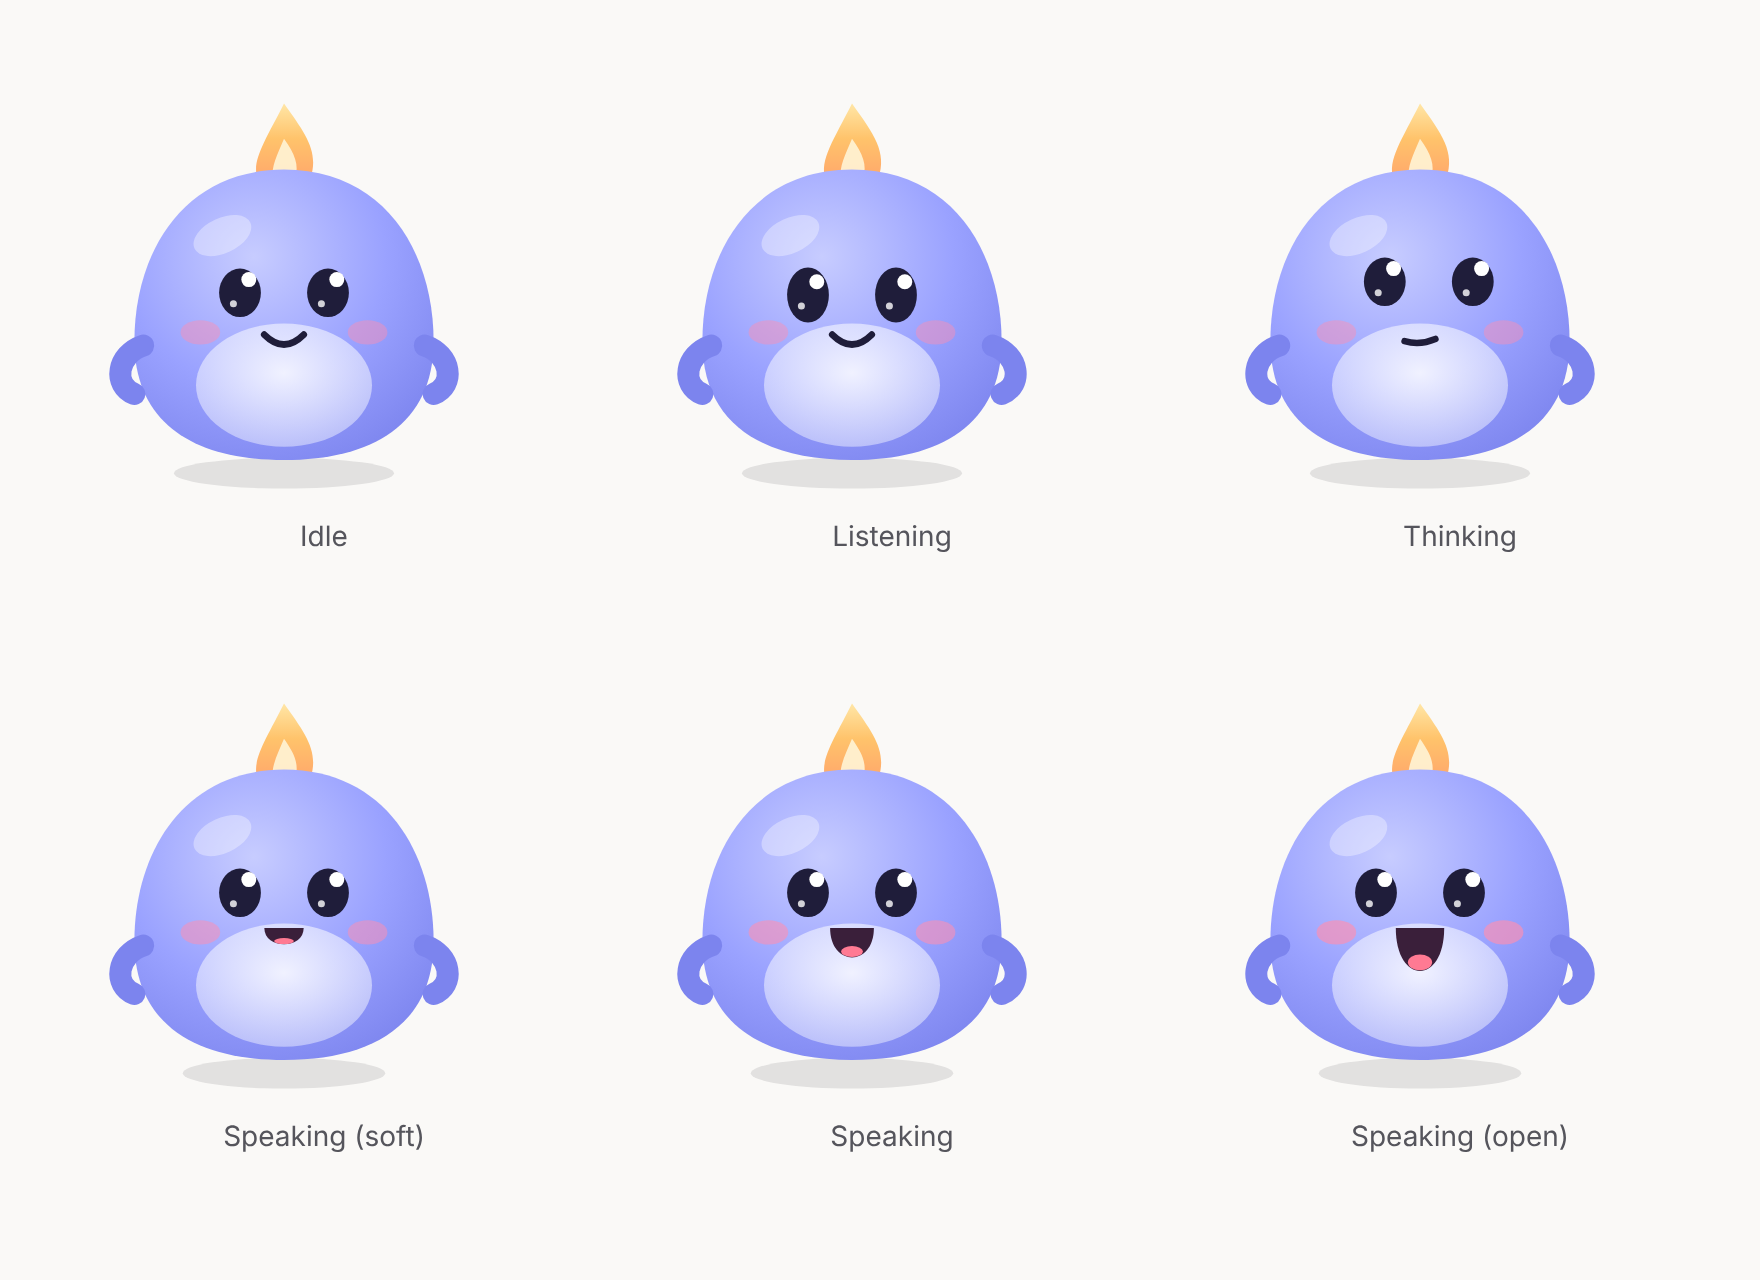
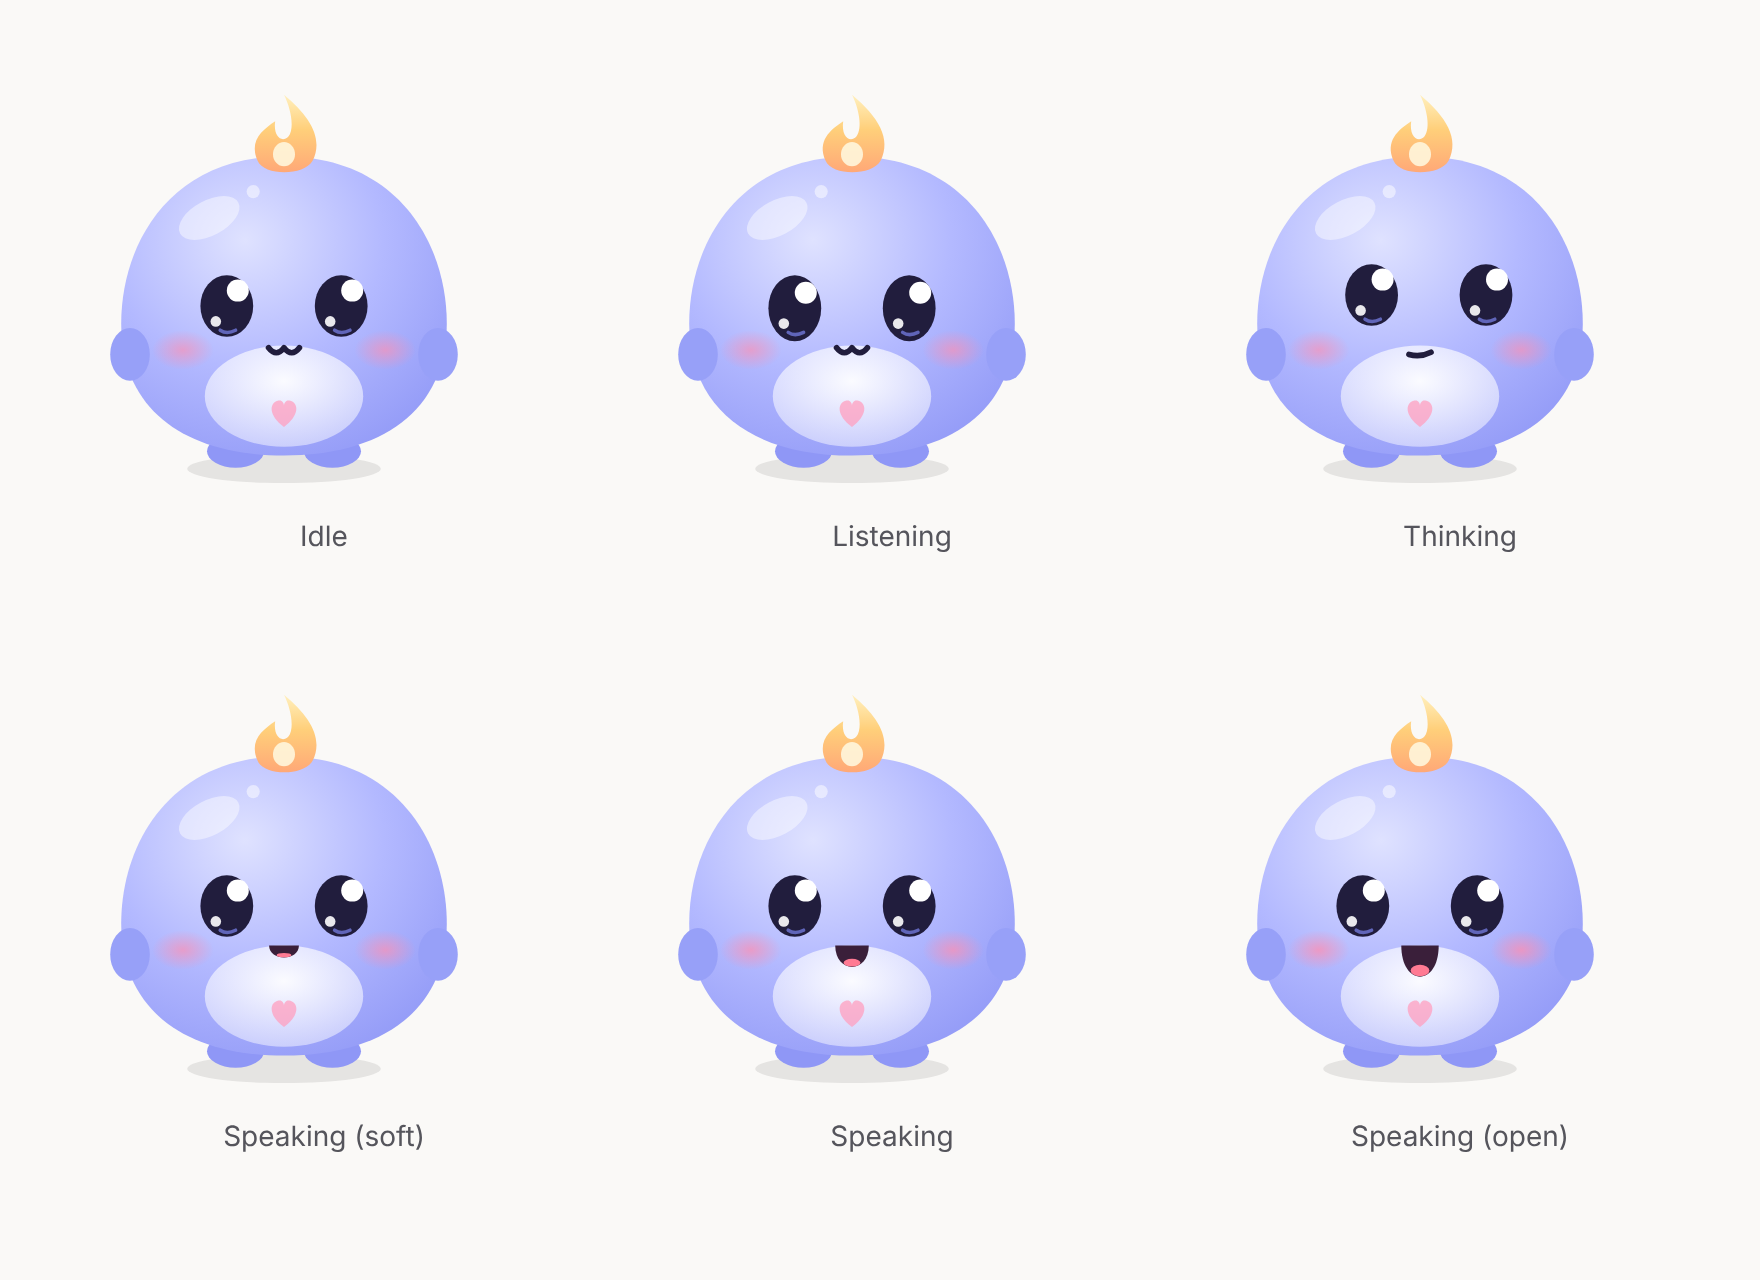
Make Mabel cuter
Rounder squishy body with tiny feet, bigger low-set sparkly eyes, kitten
smile, soft gradient blush, stubby arms, curled flame tuft and a small
heart on her belly.

Claude-Session: https://claude.ai/code/session_01TrDrfcBNrn5DyQKY7dUqSb

diff --git a/web/src/components/mabel.tsx b/web/src/components/mabel.tsx
@@ -19,10 +19,10 @@ export function Mabel({ state = "idle", level = 0, size = 160, className }: { st
   }, []);
 
   const o = state === "speaking" ? Math.min(1, level * 2.6) : 0;
-  const mouthH = 2 + o * 18;
-  const mouthW = 8 + o * 3;
+  const mouthH = 1.5 + o * 13;
+  const mouthW = 6 + o * 2.5;
   const look = state === "thinking" ? { x: 4, y: -5 } : state === "listening" ? { x: 0, y: 1 } : { x: 0, y: 0 };
-  const eyeRy = blink ? 0.8 : state === "listening" ? 12.5 : 11;
+  const eyeRy = blink ? 0.8 : state === "listening" ? 15 : 14;
   const tuft = state === "listening" ? "mabel-tuft-perk" : state === "speaking" ? "mabel-tuft-flicker" : "mabel-tuft-idle";
 
   return (
@@ -30,47 +30,57 @@ export function Mabel({ state = "idle", level = 0, size = 160, className }: { st
       {state === "listening" && <span className="absolute inset-[6%] animate-ping rounded-full bg-accent/20" style={{ animationDuration: "1.6s" }} />}
       <svg viewBox="0 0 200 200" width={size} height={size} role="img" aria-label={`Mabel, ${state}`} className="relative overflow-visible">
         <defs>
-          <radialGradient id="mb-body" cx="40%" cy="30%" r="80%"><stop offset="0%" stopColor="#c7ccff" /><stop offset="55%" stopColor="#9aa2ff" /><stop offset="100%" stopColor="#7c84ee" /></radialGradient>
-          <radialGradient id="mb-belly" cx="50%" cy="40%" r="60%"><stop offset="0%" stopColor="#ffffff" stopOpacity="0.85" /><stop offset="100%" stopColor="#eef0ff" stopOpacity="0.5" /></radialGradient>
-          <linearGradient id="mb-flame" x1="0" y1="1" x2="0" y2="0"><stop offset="0%" stopColor="#ff9f6b" /><stop offset="60%" stopColor="#ffc36b" /><stop offset="100%" stopColor="#ffe6a6" /></linearGradient>
+          <radialGradient id="mb-body" cx="38%" cy="28%" r="85%"><stop offset="0%" stopColor="#dfe2ff" /><stop offset="50%" stopColor="#b3b9ff" /><stop offset="100%" stopColor="#8f97f6" /></radialGradient>
+          <radialGradient id="mb-belly" cx="50%" cy="35%" r="65%"><stop offset="0%" stopColor="#ffffff" stopOpacity="0.95" /><stop offset="100%" stopColor="#f1f2ff" stopOpacity="0.55" /></radialGradient>
+          <linearGradient id="mb-flame" x1="0" y1="1" x2="0" y2="0"><stop offset="0%" stopColor="#ffa877" /><stop offset="55%" stopColor="#ffcf7a" /><stop offset="100%" stopColor="#fff0be" /></linearGradient>
+          <radialGradient id="mb-blush" cx="50%" cy="50%" r="50%"><stop offset="0%" stopColor="#ff8fb1" stopOpacity="0.75" /><stop offset="100%" stopColor="#ff8fb1" stopOpacity="0" /></radialGradient>
         </defs>
         {/* soft ground shadow */}
-        <ellipse cx="100" cy="186" rx={state === "speaking" ? 46 : 50} ry="7" fill="#11111a" opacity="0.10" className="mabel-shadow" />
+        <ellipse cx="100" cy="184" rx="44" ry="6.5" fill="#11111a" opacity="0.09" className="mabel-shadow" />
         <g className="mabel-bob">
-          {/* flame tuft */}
-          <g className={tuft} style={{ transformOrigin: "100px 52px" }}>
-            <path d="M100 18 C110 32 116 40 112 52 C109 60 91 60 88 52 C85 44 92 34 100 18 Z" fill="url(#mb-flame)" />
-            <path d="M100 34 C105 41 107 46 105 52 C103 56 97 56 95 52 C94 47 97 41 100 34 Z" fill="#fff4d6" opacity="0.9" />
+          {/* tiny feet */}
+          <ellipse cx="78" cy="176" rx="13" ry="7.5" fill="#8f97f6" />
+          <ellipse cx="122" cy="176" rx="13" ry="7.5" fill="#8f97f6" />
+          {/* round, squishy body (big head = cute) */}
+          <path d="M100 42 C152 42 174 82 174 118 C174 158 144 178 100 178 C56 178 26 158 26 118 C26 82 48 42 100 42 Z" fill="url(#mb-body)" />
+          {/* flame tuft with a little curl */}
+          <g className={tuft} style={{ transformOrigin: "100px 46px" }}>
+            <path d="M100 14 C112 24 118 34 113 44 C109 51 91 51 88 44 C84 35 90 30 96 26 C95 33 99 36 102 33 C105 29 103 20 100 14 Z" fill="url(#mb-flame)" />
+            <ellipse cx="100" cy="41" rx="5" ry="5.5" fill="#fff6dc" opacity="0.9" />
           </g>
-          {/* body: a soft gumdrop */}
-          <path d="M100 48 C146 48 168 86 168 126 C168 164 140 180 100 180 C60 180 32 164 32 126 C32 86 54 48 100 48 Z" fill="url(#mb-body)" />
-          {/* belly patch */}
-          <ellipse cx="100" cy="146" rx="40" ry="28" fill="url(#mb-belly)" />
-          {/* little arms */}
-          <path d="M36 128 C24 132 22 146 32 150" stroke="#7c84ee" strokeWidth="10" strokeLinecap="round" fill="none" className={state === "speaking" ? "mabel-wave-l" : undefined} style={{ transformOrigin: "36px 128px" }} />
-          <path d="M164 128 C176 132 178 146 168 150" stroke="#7c84ee" strokeWidth="10" strokeLinecap="round" fill="none" className={state === "speaking" ? "mabel-wave-r" : undefined} style={{ transformOrigin: "164px 128px" }} />
+          {/* belly */}
+          <ellipse cx="100" cy="151" rx="36" ry="23" fill="url(#mb-belly)" />
+          {/* tiny heart on the belly */}
+          <path d="M100 165 C93 160 93 154 97.5 153 C99 152.6 100 154 100 155.3 C100 154 101 152.6 102.5 153 C107 154 107 160 100 165 Z" fill="#ff9fbf" opacity="0.75" />
+          {/* stubby arms */}
+          <ellipse cx="30" cy="132" rx="9" ry="12" fill="#97a0f8" className={state === "speaking" ? "mabel-wave-l" : undefined} style={{ transformOrigin: "36px 124px" }} />
+          <ellipse cx="170" cy="132" rx="9" ry="12" fill="#97a0f8" className={state === "speaking" ? "mabel-wave-r" : undefined} style={{ transformOrigin: "164px 124px" }} />
           {/* gloss */}
-          <ellipse cx="72" cy="78" rx="14" ry="8" fill="#ffffff" opacity="0.35" transform="rotate(-25 72 78)" />
-          {/* eyes */}
+          <ellipse cx="66" cy="70" rx="15" ry="8" fill="#ffffff" opacity="0.45" transform="rotate(-28 66 70)" />
+          <circle cx="86" cy="58" r="3" fill="#ffffff" opacity="0.5" />
+          {/* big sparkly eyes, set low and wide */}
           <g style={{ transform: `translate(${look.x}px, ${look.y}px)`, transition: "transform 420ms cubic-bezier(.22,1,.36,1)" }}>
-            <ellipse cx="80" cy="104" rx="9.5" ry={eyeRy} fill="#1f1d3a" style={{ transition: "ry 90ms" }} />
-            <ellipse cx="120" cy="104" rx="9.5" ry={eyeRy} fill="#1f1d3a" style={{ transition: "ry 90ms" }} />
+            <ellipse cx="74" cy="110" rx="12" ry={eyeRy} fill="#211d3d" style={{ transition: "ry 90ms" }} />
+            <ellipse cx="126" cy="110" rx="12" ry={eyeRy} fill="#211d3d" style={{ transition: "ry 90ms" }} />
             {!blink && <>
-              <circle cx="84" cy="98" r="3.4" fill="#fff" /><circle cx="124" cy="98" r="3.4" fill="#fff" />
-              <circle cx="77" cy="109" r="1.6" fill="#fff" opacity="0.8" /><circle cx="117" cy="109" r="1.6" fill="#fff" opacity="0.8" />
+              <circle cx="79" cy="103" r="5" fill="#fff" /><circle cx="131" cy="103" r="5" fill="#fff" />
+              <circle cx="69" cy="117" r="2.4" fill="#fff" opacity="0.9" /><circle cx="121" cy="117" r="2.4" fill="#fff" opacity="0.9" />
+              <path d="M71 121 q3 2 7 0" stroke="#7c84ee" strokeWidth="1.6" strokeLinecap="round" fill="none" opacity="0.7" />
+              <path d="M123 121 q3 2 7 0" stroke="#7c84ee" strokeWidth="1.6" strokeLinecap="round" fill="none" opacity="0.7" />
             </>}
           </g>
-          {/* cheeks */}
-          <ellipse cx="62" cy="122" rx="9" ry="5.5" fill="#ff8fb1" opacity={0.45 + o * 0.2} />
-          <ellipse cx="138" cy="122" rx="9" ry="5.5" fill="#ff8fb1" opacity={0.45 + o * 0.2} />
-          {/* mouth */}
+          {/* soft blush */}
+          <ellipse cx="54" cy="130" rx="14" ry="9" fill="url(#mb-blush)" opacity={0.85 + o * 0.15} />
+          <ellipse cx="146" cy="130" rx="14" ry="9" fill="url(#mb-blush)" opacity={0.85 + o * 0.15} />
+          {/* little mouth */}
           {o < 0.08 ? (
-            <path d={state === "thinking" ? "M93 126 q7 2 14 -1" : "M91 123 q9 9 18 0"} stroke="#1f1d3a" strokeWidth="3" strokeLinecap="round" fill="none" />
+            state === "thinking"
+              ? <path d="M95 132 q5 1.5 10 -1" stroke="#211d3d" strokeWidth="2.6" strokeLinecap="round" fill="none" />
+              : <path d="M93 129 q3.5 4.5 7 0 q3.5 4.5 7 0" stroke="#211d3d" strokeWidth="2.6" strokeLinecap="round" strokeLinejoin="round" fill="none" />
           ) : (
             <g>
-              {/* rounded “D” mouth; its lowest point is 121 + mouthH */}
-              <path d={`M${100 - mouthW} 120 C${100 - mouthW} ${120 + mouthH * 1.3} ${100 + mouthW} ${120 + mouthH * 1.3} ${100 + mouthW} 120 Z`} fill="#3a1f3a" />
-              {o > 0.3 && <ellipse cx="100" cy={120 + mouthH * 0.78} rx={mouthW * 0.5} ry={mouthH * 0.18} fill="#ff7a93" />}
+              <path d={`M${100 - mouthW} 128 C${100 - mouthW} ${128 + mouthH * 1.3} ${100 + mouthW} ${128 + mouthH * 1.3} ${100 + mouthW} 128 Z`} fill="#3a1f3a" />
+              {o > 0.3 && <ellipse cx="100" cy={128 + mouthH * 0.78} rx={mouthW * 0.5} ry={mouthH * 0.18} fill="#ff7a93" />}
             </g>
           )}
         </g>
